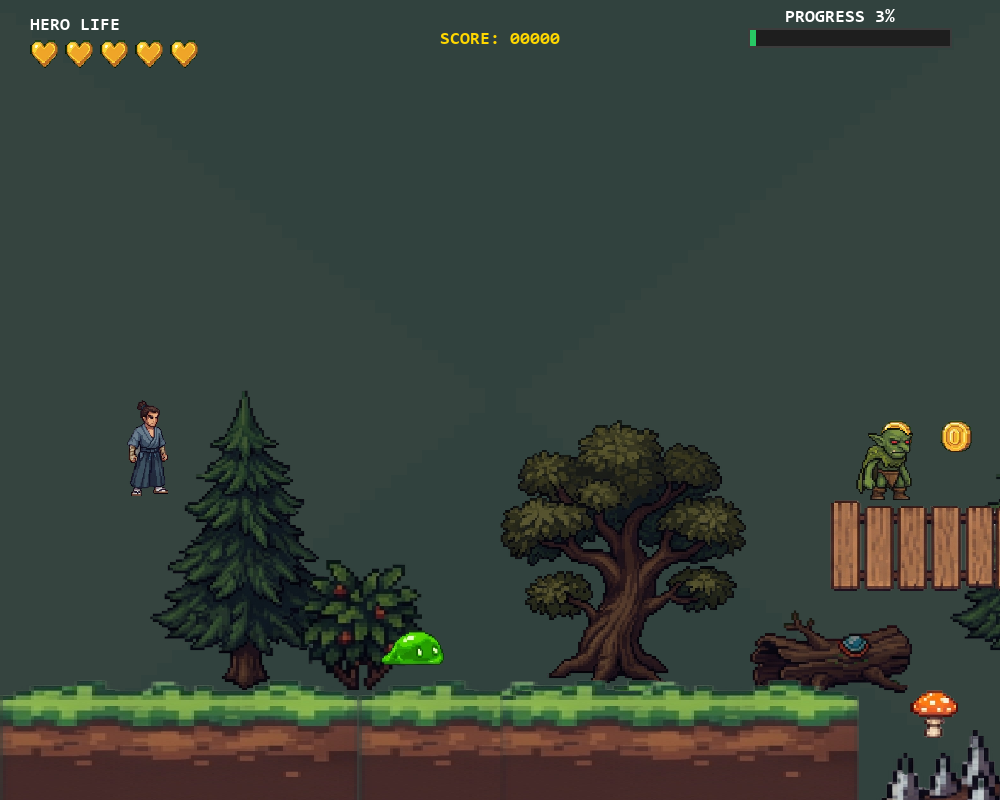
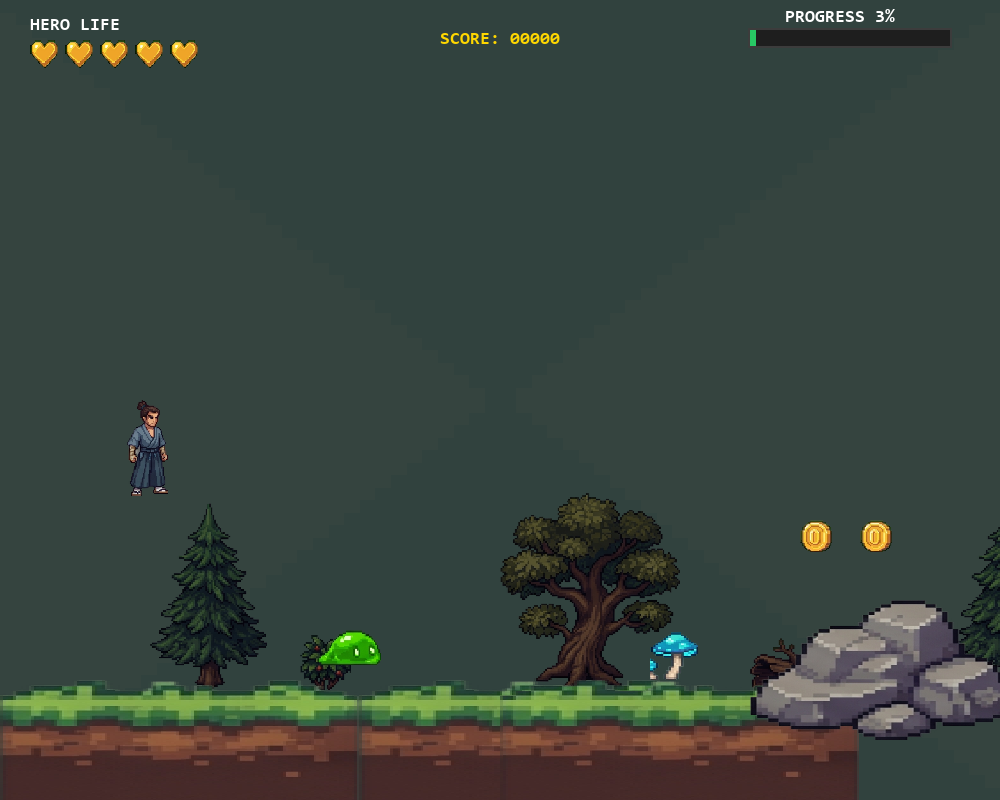
fixed rescaling forest background decorations to match player scale

Changed region(s): [[0.744, 0.5312, 1.0, 1.0], [0.496, 0.5312, 0.744, 0.875], [0.155, 0.5, 0.465, 0.875]]

diff --git a/assets_manager.py b/assets_manager.py
@@ -140,11 +140,11 @@ class AssetsManager:
             "interactive_mushroom.png": ("Terrain/forest.png", (1643, 1372, 104, 117), (141, 123)),
             
             # Decorations
-            "decor_pine_trees.png": ("Terrain/forest.png", (646, 597, 386, 617), (188, 300)),
-            "decor_deciduous_tree.png": ("Terrain/forest.png", (47, 575, 593, 651), (246, 270)),
-            "decor_leafy_tree.png": ("Terrain/forest.png", (1655, 1033, 170, 181), (122, 130)),
-            "decor_fallen_log.png": ("Terrain/forest.png", (1421, 693, 368, 204), (162, 90)),
-            "decor_stump_logs.png": ("Terrain/forest.png", (1842, 686, 282, 211), (107, 80)),
+            "decor_pine_trees.png": ("Terrain/forest.png", (646, 597, 386, 617), (117, 187)),
+            "decor_deciduous_tree.png": ("Terrain/forest.png", (47, 575, 593, 651), (180, 197)),
+            "decor_leafy_tree.png": ("Terrain/forest.png", (1655, 1033, 170, 181), (51, 55)),
+            "decor_fallen_log.png": ("Terrain/forest.png", (1421, 693, 368, 204), (111, 62)),
+            "decor_stump_logs.png": ("Terrain/forest.png", (1842, 686, 282, 211), (85, 64)),
             
             # Collectibles (from Items/collectibles.png)
             "item_coin.png": ("Items/collectibles.png", (30, 26, 102, 112), (105, 105)),